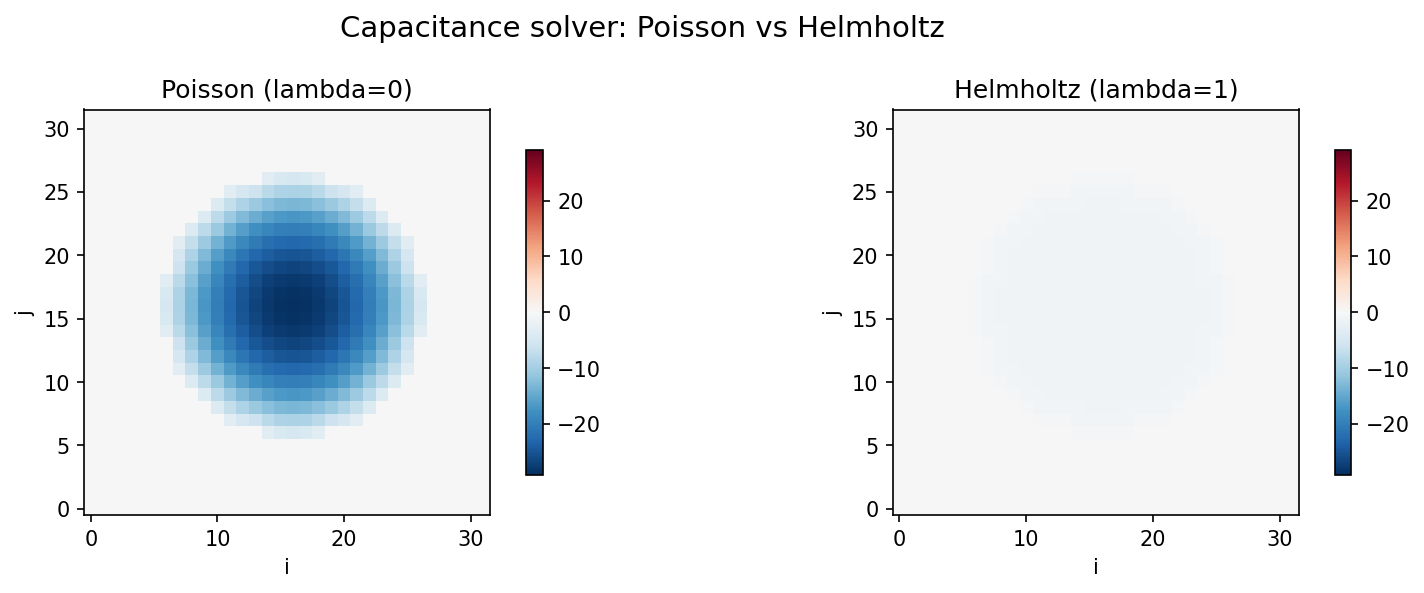
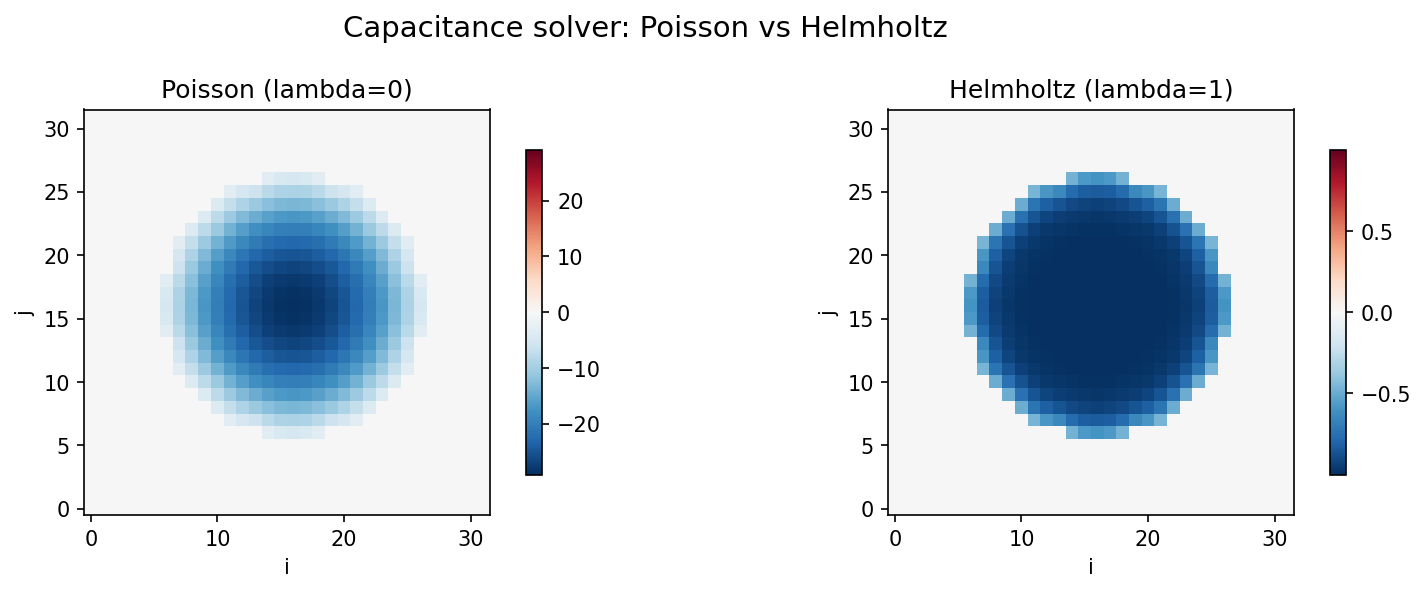
fix: use independent colour scales for Poisson vs Helmholtz comparison
The Helmholtz solution (max ~1.0) is ~30x smaller than Poisson (max ~29)
due to screening. A shared colour scale made the Helmholtz panel appear
blank. Now each panel has its own symmetric scale.

diff --git a/notebooks/demo_capacitance.py b/notebooks/demo_capacitance.py
@@ -227,16 +227,19 @@ psi_helmholtz = solver_helmholtz(rhs)
 # %%
 fig, axes = plt.subplots(1, 2, figsize=(11, 4))
 
-vmax = max(float(jnp.max(jnp.abs(psi_poisson))), float(jnp.max(jnp.abs(psi_helmholtz))))
+# Use independent colour scales — Helmholtz solution is much smaller
+# due to screening, so a shared scale makes it look blank.
+vmax_p = float(jnp.max(jnp.abs(psi_poisson)))
+vmax_h = float(jnp.max(jnp.abs(psi_helmholtz)))
 
 im0 = axes[0].imshow(
-    np.array(psi_poisson), origin="lower", cmap="RdBu_r", vmin=-vmax, vmax=vmax
+    np.array(psi_poisson), origin="lower", cmap="RdBu_r", vmin=-vmax_p, vmax=vmax_p
 )
 axes[0].set_title("Poisson (lambda=0)")
 plt.colorbar(im0, ax=axes[0], shrink=0.8)
 
 im1 = axes[1].imshow(
-    np.array(psi_helmholtz), origin="lower", cmap="RdBu_r", vmin=-vmax, vmax=vmax
+    np.array(psi_helmholtz), origin="lower", cmap="RdBu_r", vmin=-vmax_h, vmax=vmax_h
 )
 axes[1].set_title("Helmholtz (lambda=1)")
 plt.colorbar(im1, ax=axes[1], shrink=0.8)
